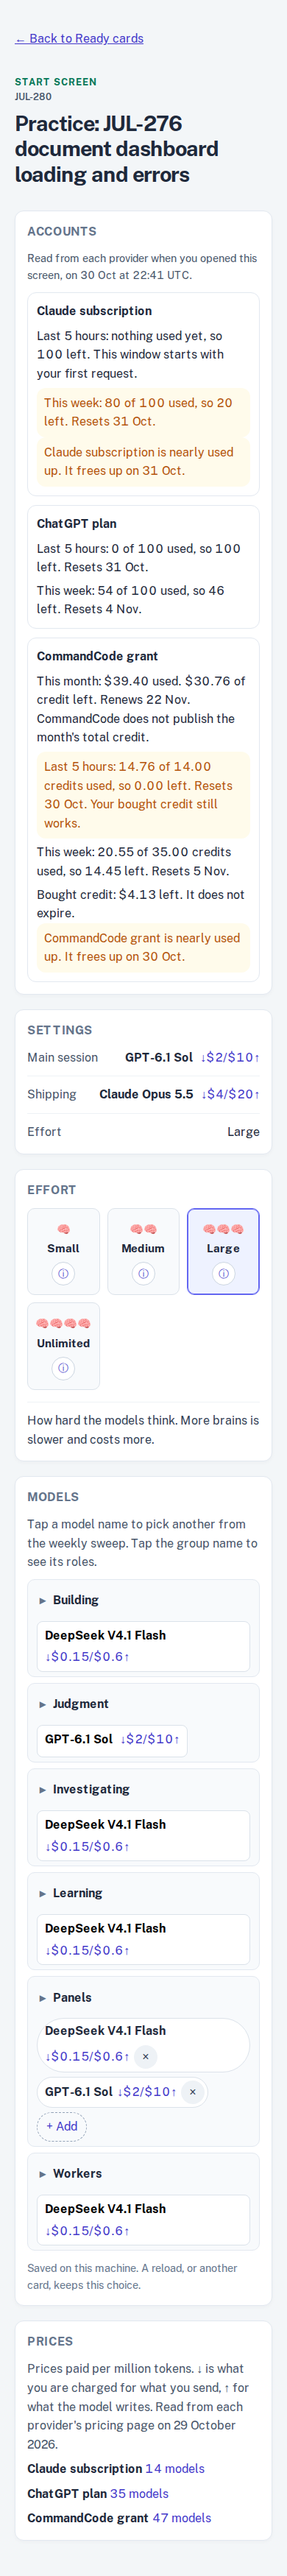
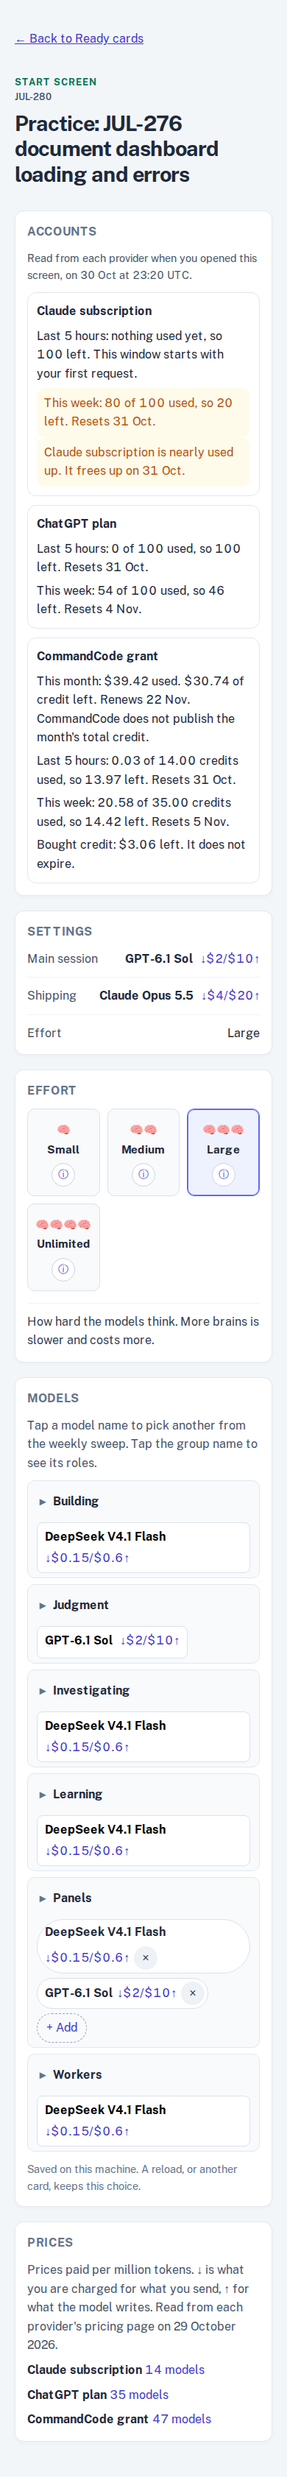
Say a number can't be read in the words the card requires (JUL-290)
Shipping rejected slice 4b on its fourth criterion. With no CommandCode key the
Start screen read "No number. The server has no sign-in or key for CommandCode
grant. Todd needs to add it.", and the card's Outcome asks for "can't be read"
in place of a number.

One place produced that sentence, so every unreadable row now reads "This
number can't be read." followed by the reason that account gives. The test that
should have caught this had asserted whatever the code produced, so it now
asserts the sentence the card asks for.

Lane 13 boots a server with the CommandCode key removed, which is the case
Shipping ran, and fails when that row says anything else. It failed on the
previous build with the sentence above and passes now. It skips on a --url run,
because a live address has the key.

Changed region(s): [[0.0308, 0.0, 0.9231, 0.9985]]

diff --git a/dashboard/lib/usage-view.js b/dashboard/lib/usage-view.js
@@ -21,7 +21,7 @@ export function accountView(account, { timeZone = 'UTC', locale = 'en-GB' } = {}
   const rows = account.rows.map(row => {
     let text;
     switch (row.kind) {
-      case 'unreadable': text = `No number. ${problemText(row, account.name)}`; break;
+      case 'unreadable': text = `This number can't be read. ${problemText(row, account.name)}`; break;
       case 'balance': text = `${row.label}: ${amount(row.remaining, row.unit)} left. It does not expire.`; break;
       case 'spend': text = `${row.label}: ${amount(row.used, row.unit)} used. ${amount(row.left, row.unit)} of credit left. ${row.resetsAt
         ? `Renews ${day(row.resetsAt)}.`

diff --git a/docs/scorecards/JUL-290.md b/docs/scorecards/JUL-290.md
@@ -1,12 +1,12 @@
 # Scorecard: JUL-290
 
-Generated 2026-10-30 22:49 UTC by `node scripts/scorecard.mjs JUL-290 --write` from Mastra Code's records (see docs/adr/0024-run-scorecard-and-stop-ping.md).
+Generated 2026-10-30 23:21 UTC by `node scripts/scorecard.mjs JUL-290 --write` from Mastra Code's records (see docs/adr/0024-run-scorecard-and-stop-ping.md).
 
 ## Result
 
 - Success: **not decided yet (no UAT yes recorded)**. Stops before Todd's UAT yes: 33. Todd's UAT yes: not recorded.
 - Cost: **$1.74** at published API prices, plus the unpriced rows below.
-- Cost incomplete: 4 sessions of this card started after the launcher and recorded no trace rows.
+- Cost incomplete: 7 sessions of this card started after the launcher and recorded no trace rows.
 - Stops: 33, waiting 891 min in total. PR #383, opened 2026-10-30 14:31.
 
 ## Cost by agent and model
@@ -31,8 +31,11 @@ Generated 2026-10-30 22:49 UTC by `node scripts/scorecard.mjs JUL-290 --write` f
 | Code Agent (main chat) | commandcode.chat/deepseek/deepseek-v4.1-flash | not recorded before tracing |  |  |  |  | unpriced | thread total |
 | Code Agent (main chat) | commandcode.chat/moonshotai/Kimi-K3.1-Pro | not recorded before tracing |  |  |  |  | unpriced | thread total |
 | Code Agent (main chat) | commandcode.chat/deepseek/deepseek-v4.1-flash | not recorded before tracing |  |  |  |  | unpriced | thread total |
-| Subagent explore x4 | commandcode/deepseek/deepseek-v4.1-flash | not recorded before tracing |  |  |  |  | unpriced | usage not recorded before tracing |
+| Code Agent (main chat) | commandcode.chat/moonshotai/Kimi-K3.1-Pro | not recorded before tracing |  |  |  |  | unpriced | thread total |
+| Code Agent (main chat) | commandcode.chat/moonshotai/Kimi-K3.1-Pro | not recorded before tracing |  |  |  |  | unpriced | thread total |
 | Code Agent (main chat) | commandcode.chat/deepseek/deepseek-v4.1-flash | not recorded before tracing |  |  |  |  | unpriced | thread total |
+| Code Agent (main chat) | commandcode.chat/deepseek/deepseek-v4.1-flash | not recorded before tracing |  |  |  |  | unpriced | thread total |
+| Subagent explore x4 | commandcode/deepseek/deepseek-v4.1-flash | not recorded before tracing |  |  |  |  | unpriced | usage not recorded before tracing |
 
 ## Stops
 
@@ -1544,5 +1547,8 @@ For a question, the ask_user text. For a turn that ended, the run's last message
 - Thread `f7dc271e` "JUL-290 shipping": 2026-10-30 21:52 to 2026-10-30 21:54, 2 main-chat model steps, 0 subagent calls.
 - Thread `78133d66` "JUL-290 remediation": 2026-10-30 21:54 to 2026-10-30 21:58, 41 main-chat model steps, 0 subagent calls.
 - Thread `2c1a5aed` "JUL-290 shipping": 2026-10-30 22:02 to 2026-10-30 22:26, 69 main-chat model steps, 0 subagent calls.
-- Thread `ac3cc5a6` "JUL-290 judge verdict recovery": 1970-01-01 00:00 to 2026-10-30 22:43, 491 main-chat model steps, 4 subagent calls (4x explore on commandcode/deepseek/deepseek-v4.1-flash).
-- Thread `f20ced5a` "JUL-290 remediation": 2026-10-30 22:33 to 2026-10-30 22:49, 125 main-chat model steps, 0 subagent calls.
+- Thread `f20ced5a` "JUL-290 remediation": 2026-10-30 22:33 to 2026-10-30 22:57, 153 main-chat model steps, 0 subagent calls.
+- Thread `39d1afe4` "JUL-290 shipping": 2026-10-30 23:02 to 2026-10-30 23:02, 1 main-chat model steps, 0 subagent calls.
+- Thread `1b908642` "JUL-290 shipping": 2026-10-30 23:03 to 2026-10-30 23:16, 40 main-chat model steps, 0 subagent calls.
+- Thread `3ea4627d` "JUL-290 remediation": 2026-10-30 23:16 to 2026-10-30 23:21, 61 main-chat model steps, 0 subagent calls.
+- Thread `ac3cc5a6` "JUL-290 run-card UAT run": 1970-01-01 00:00 to 2026-10-30 23:21, 606 main-chat model steps, 4 subagent calls (4x explore on commandcode/deepseek/deepseek-v4.1-flash).

diff --git a/dashboard/docs/decisions/0023-account-status.md b/dashboard/docs/decisions/0023-account-status.md
@@ -9,3 +9,5 @@ There is no cache and no estimate. Every Start open reads each provider with no-
 CommandCode's two windows are shown, measured in credits rather than dollars. `billing/credits.windowLimits` carries `fiveHour` and `weekly`, each with `used`, `cap`, `resetAt` and `exceeded`, and its published limits page (`commandcode.ai/docs/resources/usage-limits`) names those caps as credits: 14 in any 5 hours and 35 in any 7 days on the plan this server runs. The same page says a credit on that plan is a usage-value unit, worth up to $20 on a $100 model and $14 on a $70 one, so the caps are printed as credits with no dollar sign and never converted. The page also says pay-as-you-go credit is never limited and is spent first, so a spent window with bought credit left reads `Your bought credit still works.` and its level is pulled back from out to nearly out: the request still goes through. Windows roll from first use, so their rows say `Resets` while the monthly row says `Renews`.
 
 The CommandCode monthly row shows two provider numbers and no total. `usage/summary.totalMonthlyCredits` is what the month has used and `billing/credits.credits.monthlyCredits` is what is left of the month's credit. The provider publishes no monthly allowance, so the screen never adds them up: eighteen billing, plan and account routes were tried on 30 October and every one answered 404, and the only caps the provider sends are the two window caps above. The row therefore reads `This month: $39.40 used. $30.76 of credit left. Renews 22 Nov. CommandCode does not publish the month's total credit.` and takes its level only from the provider's own signals, `credits.belowThreshold` for nearly out and a zero balance for out. A comparison the provider never sent would be our arithmetic, not its number.
+
+An account that cannot be read says so in the card's own words, `This number can't be read.`, followed by the reason that account gives. JUL-290's Outcome fixes that sentence, so it needs no new decision: the reason names Todd when only Todd can fix it (`Todd needs to add it`, `Todd needs to replace it`) and names Mastra Code when a sign-in is the fix. Every problem code goes through one sentence, so no row can fall back to a number-shaped stub. Lane 13 boots a server with the CommandCode key removed and fails if that row says anything else; it caught the first shipped version, which still read `No number.`
